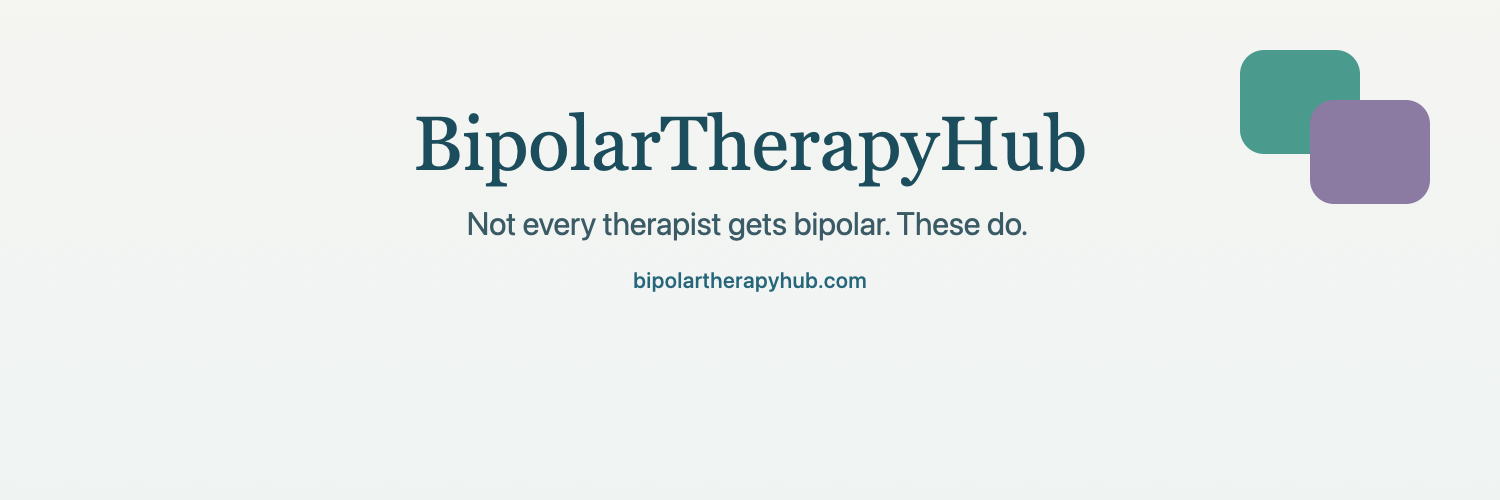
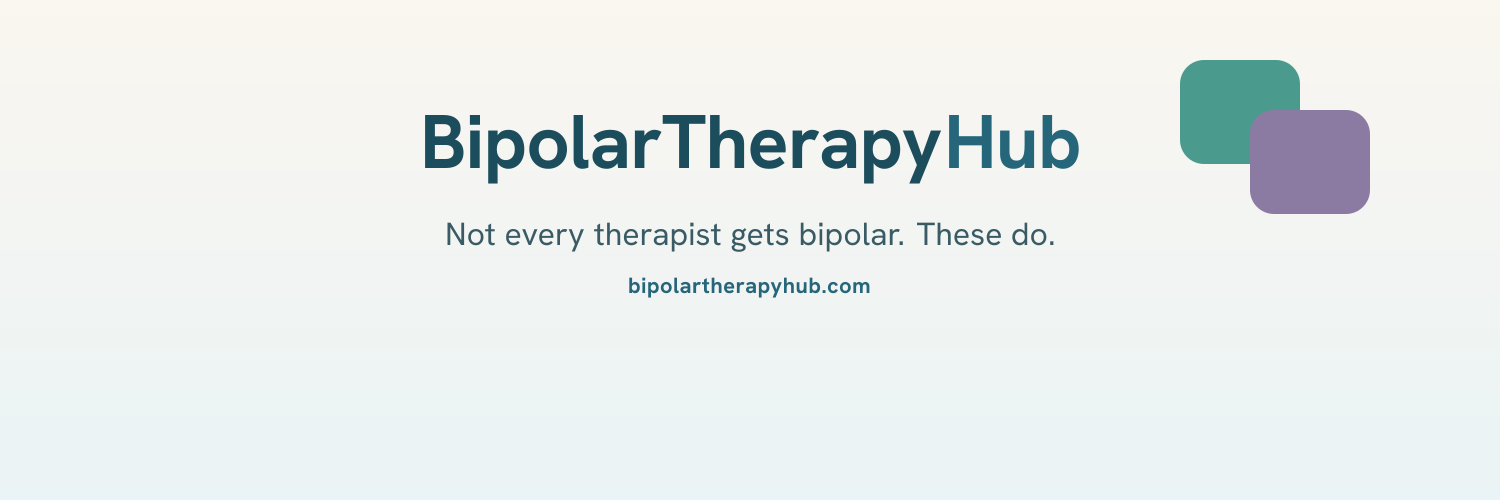
feat(seo): page-specific branded share cards for city, insurance, legal pages (#1006)
* feat(seo): page-specific branded share cards for city, insurance, legal pages

Every shareable URL now renders the same branded 1200x630 card the
therapist profiles use, instead of falling back to the generic home card.

- City pages: per-city card ("Bipolar therapists in <City>, CA.") rendered
  per published landing page, mirrored 1:1 with the page generator's
  MIN_PROVIDERS eligibility set. City hub gets its own branded card.
- Insurance pages + hub: dedicated branded "take your insurance" card
  (was pointing at the generic /og-image.png).
- privacy + terms: add the full OG/Twitter card block (home card) so no
  public URL shares as a bare no-image link.

All cards render RGB (X rejects RGBA) via the existing build-time
generator. Cross-platform is handled by the existing dual OG + twitter
tags: Facebook/LinkedIn read og:*, X reads twitter:* with og fallback.

* fix(brand): X header banner uses Fraunces + Hanken Grotesk

The site moved off DM Serif Display / DM Sans to Fraunces + Hanken
Grotesk (#991); the OG share cards followed (#993) but the X/Twitter
profile header banner was left on the old fonts.

Rerender twitter-header.png via the same satori + shared/og-fonts/
pipeline the share cards use (new scripts/render-branding-header.mjs),
so the banner matches the site and no longer depends on which fonts
happen to be installed locally. Source SVG + README updated to match.

* fix(brand): X header wordmark in bold Hanken Grotesk for legibility
[…]

diff --git a/privacy.html b/privacy.html
@@ -7,7 +7,33 @@
     <link rel="icon" type="image/png" href="/favicon.png" />
     <link rel="apple-touch-icon" href="/favicon.png" />
     <title>Privacy Policy · BipolarTherapyHub</title>
+    <meta
+      name="description"
+      content="How BipolarTherapyHub handles your data. A calmer, privacy-first way to find bipolar care."
+    />
     <link rel="canonical" href="https://www.bipolartherapyhub.com/privacy" />
+    <meta property="og:type" content="website" />
+    <meta property="og:site_name" content="BipolarTherapyHub" />
+    <meta property="og:url" content="https://www.bipolartherapyhub.com/privacy" />
+    <meta property="og:title" content="Privacy Policy · BipolarTherapyHub" />
+    <meta
+      property="og:description"
+      content="How BipolarTherapyHub handles your data. A calmer, privacy-first way to find bipolar care."
+    />
+    <meta property="og:image" content="https://www.bipolartherapyhub.com/og-image.png?v2" />
+    <meta property="og:image:width" content="1200" />
+    <meta property="og:image:height" content="630" />
+    <meta
+      property="og:image:alt"
+      content="BipolarTherapyHub · Find therapists who understand bipolar disorder"
+    />
+    <meta name="twitter:card" content="summary_large_image" />
+    <meta name="twitter:title" content="Privacy Policy · BipolarTherapyHub" />
+    <meta
+      name="twitter:description"
+      content="How BipolarTherapyHub handles your data. A calmer, privacy-first way to find bipolar care."
+    />
+    <meta name="twitter:image" content="https://www.bipolartherapyhub.com/og-image.png?v2" />
     <link rel="stylesheet" href="assets/fonts.css" />
     <link rel="stylesheet" href="assets/styles.css" />
     <style>

diff --git a/terms.html b/terms.html
@@ -7,7 +7,33 @@
     <link rel="icon" type="image/png" href="/favicon.png" />
     <link rel="apple-touch-icon" href="/favicon.png" />
     <title>Terms of Service · BipolarTherapyHub</title>
+    <meta
+      name="description"
+      content="The terms for using BipolarTherapyHub. A calmer way to find bipolar care in California."
+    />
     <link rel="canonical" href="https://www.bipolartherapyhub.com/terms" />
+    <meta property="og:type" content="website" />
+    <meta property="og:site_name" content="BipolarTherapyHub" />
+    <meta property="og:url" content="https://www.bipolartherapyhub.com/terms" />
+    <meta property="og:title" content="Terms of Service · BipolarTherapyHub" />
+    <meta
+      property="og:description"
+      content="The terms for using BipolarTherapyHub. A calmer way to find bipolar care in California."
+    />
+    <meta property="og:image" content="https://www.bipolartherapyhub.com/og-image.png?v2" />
+    <meta property="og:image:width" content="1200" />
+    <meta property="og:image:height" content="630" />
+    <meta
+      property="og:image:alt"
+      content="BipolarTherapyHub · Find therapists who understand bipolar disorder"
+    />
+    <meta name="twitter:card" content="summary_large_image" />
+    <meta name="twitter:title" content="Terms of Service · BipolarTherapyHub" />
+    <meta
+      name="twitter:description"
+      content="The terms for using BipolarTherapyHub. A calmer way to find bipolar care in California."
+    />
+    <meta name="twitter:image" content="https://www.bipolartherapyhub.com/og-image.png?v2" />
     <link rel="stylesheet" href="assets/fonts.css" />
     <link rel="stylesheet" href="assets/styles.css" />
     <style>

diff --git a/branding/README.md b/branding/README.md
@@ -24,8 +24,13 @@ The visual language extends the existing favicon:
 - **Palette**: cream `#F7F4EF` background, brand teal `#26667A` for
   links/accents, slate `#3A5B65` for body, dark teal `#1C4D5C` for
   the wordmark.
-- **Typography**: DM Serif Display for the wordmark (matches the
-  site headings), DM Sans for taglines (matches the body).
+- **Typography**: Hanken Grotesk throughout — bold for the wordmark
+  (the dark "BipolarTherapy" + teal "Hub" lockup, matching the favicon
+  and OG cards), regular for the tagline. A clean sans reads instantly
+  at banner scale and on mobile, where the header is small and partly
+  covered by the avatar; the decorative Fraunces serif (the site
+  heading face) is deliberately not used here. Fonts load from
+  `shared/og-fonts/`, the same cuts the share cards use.
 - **Tagline copy**: "Not every therapist gets bipolar. These do." —
   the patient-facing voice the founder has explicitly validated
   (see `feedback_copy` memory). No em-dashes, no clinician
@@ -46,25 +51,31 @@ Net effect: wordmark, tagline, and URL are centered horizontally and
 positioned in the upper half. The mark sits in the top-right as a
 quiet balance point. The bottom-left avatar zone is open background.
 
-## Regenerating PNGs from the SVGs
+## Regenerating PNGs
 
-The SVGs render on macOS via `qlmanage` (QuickLook, ships with the
-OS). The header SVG's viewBox is 1500×1500 (square) with content
-positioned in the middle band — necessary because `qlmanage`
-outputs square thumbnails regardless of source aspect; the
-follow-up `sips` center-crop trims back to the final 1500×500.
+**Header** (`twitter-header.png`): generated by a small script that
+renders with the brand fonts baked in, so it always matches the site
+no matter what's installed locally. It reuses the same satori
+(`@vercel/og`) + `shared/og-fonts/` pipeline as the OG share cards.
+Edit the copy/layout in the script, then:
+
+```sh
+node scripts/render-branding-header.mjs
+```
+
+`twitter-header.svg` remains the editable vector reference for the
+design (wordmark / tagline / mark / layout). If you change it, mirror
+the change in the script so the uploaded PNG stays in sync. (The SVG
+relies on the named fonts being installed to render correctly in a
+viewer; the script does not, which is why it owns the PNG.)
+
+**Avatar** (`twitter-avatar.png`): textless (just the brand mark), so
+it renders from its SVG via macOS `qlmanage` with no font dependency:
 
 ```sh
 cd branding
-
-# Avatar (400×400, natively square — no crop needed)
 qlmanage -t -s 400 -o . twitter-avatar.svg
 mv twitter-avatar.svg.png twitter-avatar.png
-
-# Header (1500×500, center-cropped from the square render)
-qlmanage -t -s 1500 -o . twitter-header.svg
-mv twitter-header.svg.png twitter-header.png
-sips -c 500 1500 twitter-header.png > /dev/null
 ```
 
 ## Uploading to Twitter / X